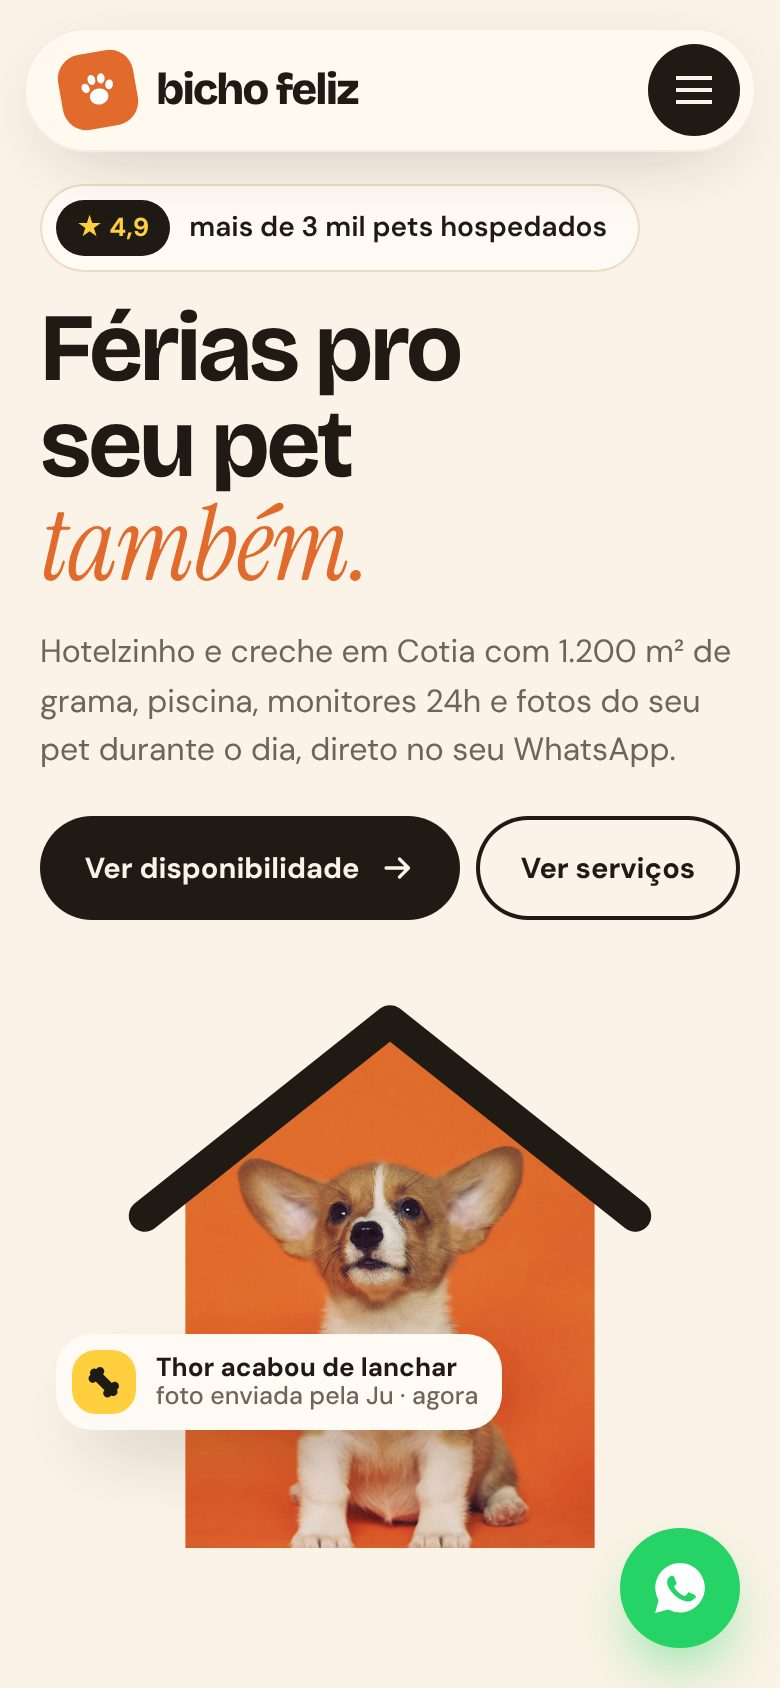
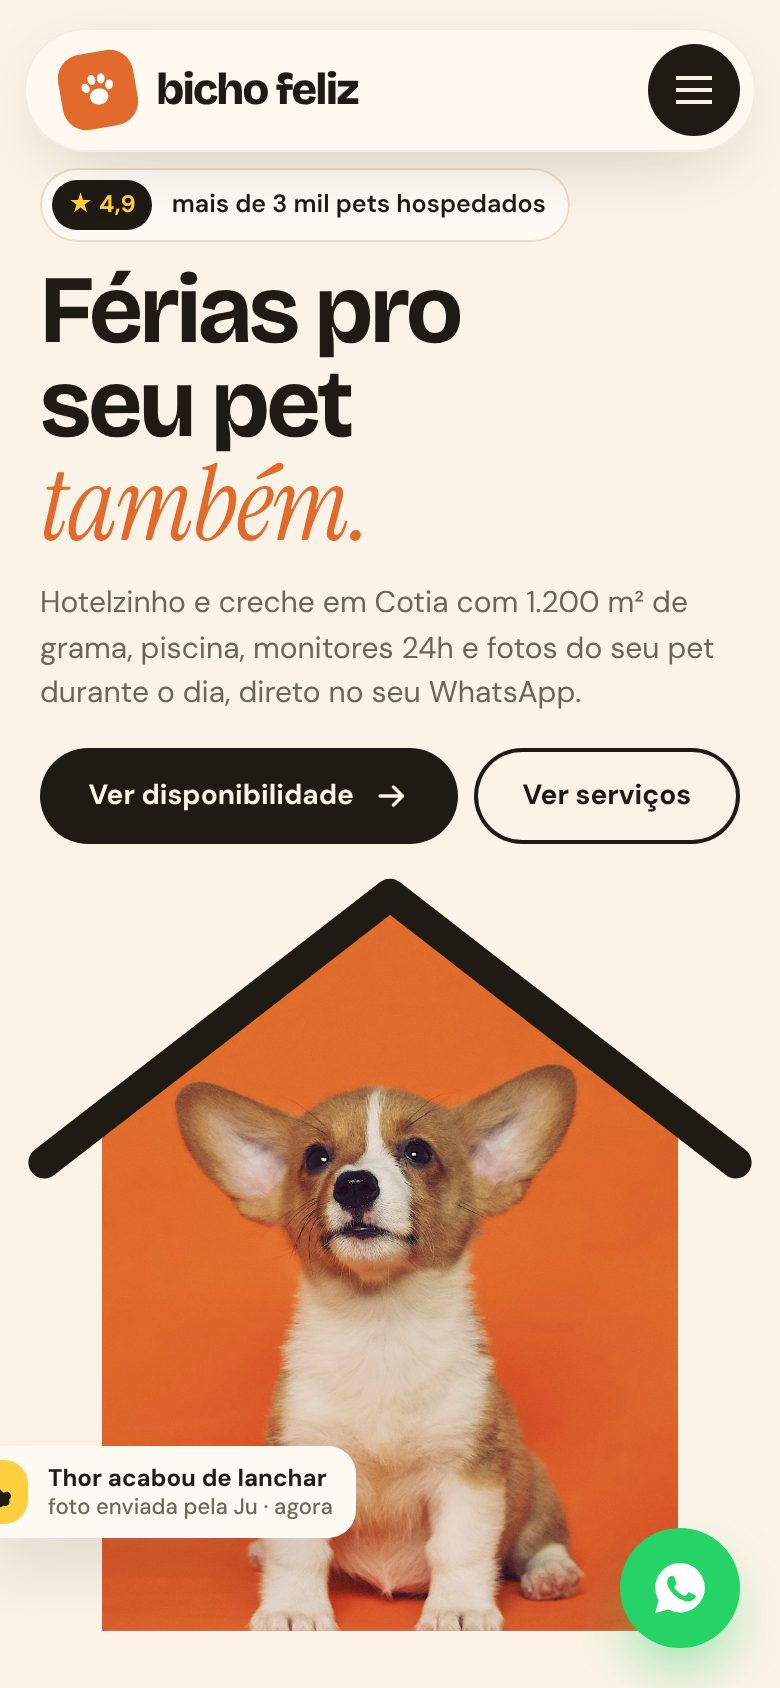
Bicho Feliz: primeira tela do celular enquadrada em qualquer altura
- Hero no celular compacto: título proporcional à altura da tela, selo e
  texto de apoio somem em telas baixas, botões menores
- Casinha ocupa o espaço que sobra sem cortar e o adesivo fica dentro dela
- Texto do hero só começa a esmaecer depois do início da rolagem
- Capa de celular do catálogo regenerada

Claude-Session: https://claude.ai/code/session_01QmiPwcu1vZC3FNQj5DnVy9

diff --git a/modelos/bicho-feliz/index.html b/modelos/bicho-feliz/index.html
@@ -389,16 +389,19 @@
   }
   @media (max-width: 900px) {
     .hero { height: 220vh; }
-    .hero__grid { grid-template-columns: 1fr; grid-template-rows: auto 1fr; gap: 18px; align-items: start; padding-top: 92px; padding-bottom: 70px; }
-    .hero h1 { font-size: clamp(46px, 12.4vw, 76px); margin: 16px 0 14px; }
-    .hero p.lead { font-size: 16px; }
-    .hero__ctas { margin-top: 20px; flex-wrap: nowrap; gap: 8px; }
-    .hero__ctas .btn { padding: 15px 16px; font-size: 14.5px; flex: 1 1 auto; white-space: nowrap; }
+    .hero__grid { grid-template-columns: 1fr; grid-template-rows: auto minmax(0, 1fr); gap: 0; align-items: start; padding-top: 84px; padding-bottom: 18px; }
+    .hero__pill { font-size: 12.5px; padding: 6px 12px 6px 6px; }
+    .hero__pill i { font-size: 12px; padding: 3px 8px; }
+    .hero h1 { font-size: min(12.4vw, 7.6svh, 76px); margin: 12px 0 10px; }
+    .hero p.lead { font-size: 15px; line-height: 1.5; }
+    .hero__ctas { margin-top: 16px; flex-wrap: nowrap; gap: 8px; }
+    .hero__ctas .btn { padding: 13px 14px; font-size: 14px; flex: 1 1 auto; white-space: nowrap; }
     .hero__trust { display: none; }
-    .casa-slot { width: auto; height: calc(100% - 40px); max-height: 400px; min-height: 190px; aspect-ratio: 4 / 5; margin-top: 40px; }
+    .casa-slot { width: auto; height: calc(100% - 34px); max-height: 360px; min-height: 0; aspect-ratio: 4 / 5; margin-top: 34px; align-self: start; }
     .selo { width: 92px; height: 92px; right: -18%; top: 4%; }
     .selo i { inset: 24px; }
-    .ad1 { left: -32%; top: 50%; padding: 8px 12px 8px 8px; font-size: 13px; }
+    .ad1 { left: -14%; top: auto; bottom: 5%; padding: 7px 12px 7px 7px; font-size: 12px; border-radius: 14px; white-space: nowrap; }
+    .ad1 small { font-size: 11px; }
     .ad1 b { width: 32px; height: 32px; }
     .ad2 { display: none; }
     .rolar { display: none; }
@@ -451,13 +454,19 @@
     .rodape__grid > div:first-child { grid-column: 1 / -1; }
   }
   @media (min-width: 901px) { .svc__cards { display: contents; } }
+  @media (max-width: 900px) and (max-height: 760px) {
+    .hero__pill { display: none; }
+    .hero h1 { margin-top: 4px; }
+  }
+  @media (max-width: 900px) and (max-height: 640px) {
+    .hero p.lead { display: none; }
+  }
   @media (max-width: 560px) {
     .datas { gap: 10px; }
     .datas label { font-size: 13px; }
     .campo input[type=date] { padding: 0 12px; font-size: 15px; height: 56px; }
     .campo input[type=text] { height: 56px; font-size: 16px; }
     .selo { display: none; }
-    .ad1 { left: -14%; top: auto; bottom: 12%; }
     .portes { gap: 8px; }
     .porte { padding: 14px 6px 12px; border-radius: 18px; }
     .porte b { font-size: 17px; }
@@ -823,7 +832,7 @@
     telhado.setAttribute("viewBox", `0 0 ${st.width} ${st.height}`);
     linha.setAttribute("points", `${X - ov},${Y + Ht * .3 + ov * .62} ${X + Wd / 2 + mx * .8},${Y - 8} ${X + Wd + ov},${Y + Ht * .3 + ov * .62}`);
     telhado.style.opacity = clamp(1 - e * 4);
-    txt.style.opacity = clamp(1 - p * 2.6);
+    txt.style.opacity = clamp(1 - Math.max(0, p - .05) * 2.8);
     txt.style.transform = `translateY(${-p * 120}px)`;
     txt.style.pointerEvents = p > .3 ? "none" : "";
     profs.forEach((el) => { const f = +el.dataset.prof; el.style.transform = `translate(${hx * 18 * f}px, ${hy * 14 * f - p * 200 * f}px)`; el.style.opacity = clamp(1 - p * 3.2); });
